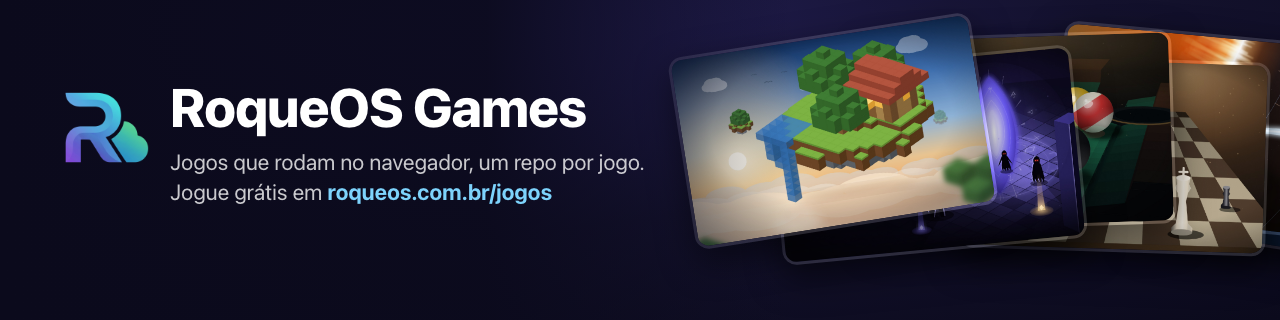
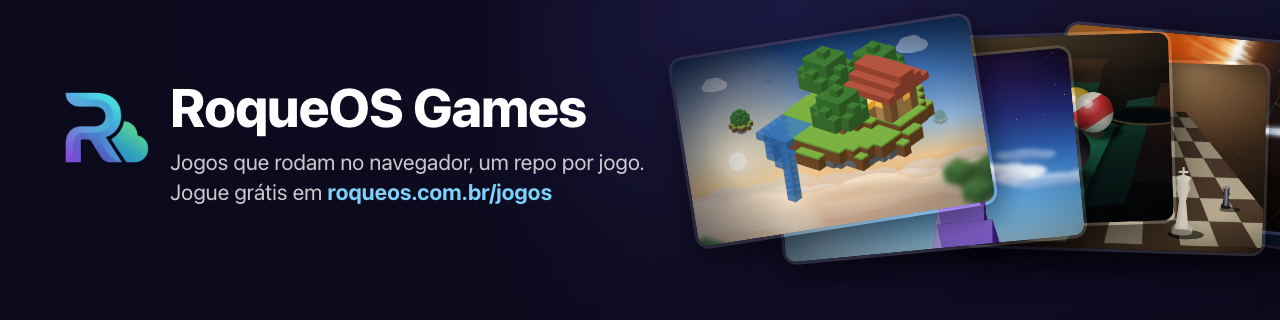
docs: refletir RagnaRoque privado na vitrine

Changed region(s): [[0.5938, 0.1875, 0.8438, 0.8125]]

diff --git a/profile/README.md b/profile/README.md
@@ -14,10 +14,9 @@ _English below._
 
 ### Mundos
 
-|                                                                                                                                      | Jogo                                                          | O que é                                                                                                             |                                                  |
-| :----------------------------------------------------------------------------------------------------------------------------------: | ------------------------------------------------------------- | ------------------------------------------------------------------------------------------------------------------- | :----------------------------------------------: |
-| <img src="https://raw.githubusercontent.com/roqueos-games/.github/main/profile/icones/roquecraft.png" width="40" height="40" alt=""> | [**RoqueCraft**](https://github.com/roqueos-games/roquecraft) | Mundo de blocos infinito: explore biomas, minere, construa e sobreviva, sozinho ou online com amigos.               | [Jogar](https://roqueos.com.br/jogar/roquecraft) |
-|    <img src="https://raw.githubusercontent.com/roqueos-games/.github/main/profile/icones/runa.png" width="40" height="40" alt="">    | [**RagnaRoque**](https://github.com/roqueos-games/runa)       | Action-RPG isométrico 3D: escolha entre 4 classes, explore um mundo por portais, evolua com talentos e colete loot. |    [Jogar](https://roqueos.com.br/jogar/runa)    |
+|                                                                                                                                      | Jogo                                                          | O que é                                                                                               |                                                  |
+| :----------------------------------------------------------------------------------------------------------------------------------: | ------------------------------------------------------------- | ----------------------------------------------------------------------------------------------------- | :----------------------------------------------: |
+| <img src="https://raw.githubusercontent.com/roqueos-games/.github/main/profile/icones/roquecraft.png" width="40" height="40" alt=""> | [**RoqueCraft**](https://github.com/roqueos-games/roquecraft) | Mundo de blocos infinito: explore biomas, minere, construa e sobreviva, sozinho ou online com amigos. | [Jogar](https://roqueos.com.br/jogar/roquecraft) |
 
 ### Tabuleiro e mesa
 
@@ -112,10 +111,9 @@ phone and TV.
 
 ### Worlds
 
-|                                                                                                                                      | Game                                                          | What it is                                                                                                     |                                                 |
-| :----------------------------------------------------------------------------------------------------------------------------------: | ------------------------------------------------------------- | -------------------------------------------------------------------------------------------------------------- | :---------------------------------------------: |
-| <img src="https://raw.githubusercontent.com/roqueos-games/.github/main/profile/icones/roquecraft.png" width="40" height="40" alt=""> | [**RoqueCraft**](https://github.com/roqueos-games/roquecraft) | Infinite block world: explore biomes, mine, build and survive, solo or online with friends.                    | [Play](https://roqueos.com.br/jogar/roquecraft) |
-|    <img src="https://raw.githubusercontent.com/roqueos-games/.github/main/profile/icones/runa.png" width="40" height="40" alt="">    | [**RagnaRoque**](https://github.com/roqueos-games/runa)       | A 3D isometric action-RPG: pick one of 4 classes, explore a world through portals, grow with talents and loot. |    [Play](https://roqueos.com.br/jogar/runa)    |
+|                                                                                                                                      | Game                                                          | What it is                                                                                  |                                                 |
+| :----------------------------------------------------------------------------------------------------------------------------------: | ------------------------------------------------------------- | ------------------------------------------------------------------------------------------- | :---------------------------------------------: |
+| <img src="https://raw.githubusercontent.com/roqueos-games/.github/main/profile/icones/roquecraft.png" width="40" height="40" alt=""> | [**RoqueCraft**](https://github.com/roqueos-games/roquecraft) | Infinite block world: explore biomes, mine, build and survive, solo or online with friends. | [Play](https://roqueos.com.br/jogar/roquecraft) |
 
 ### Board and table
 
